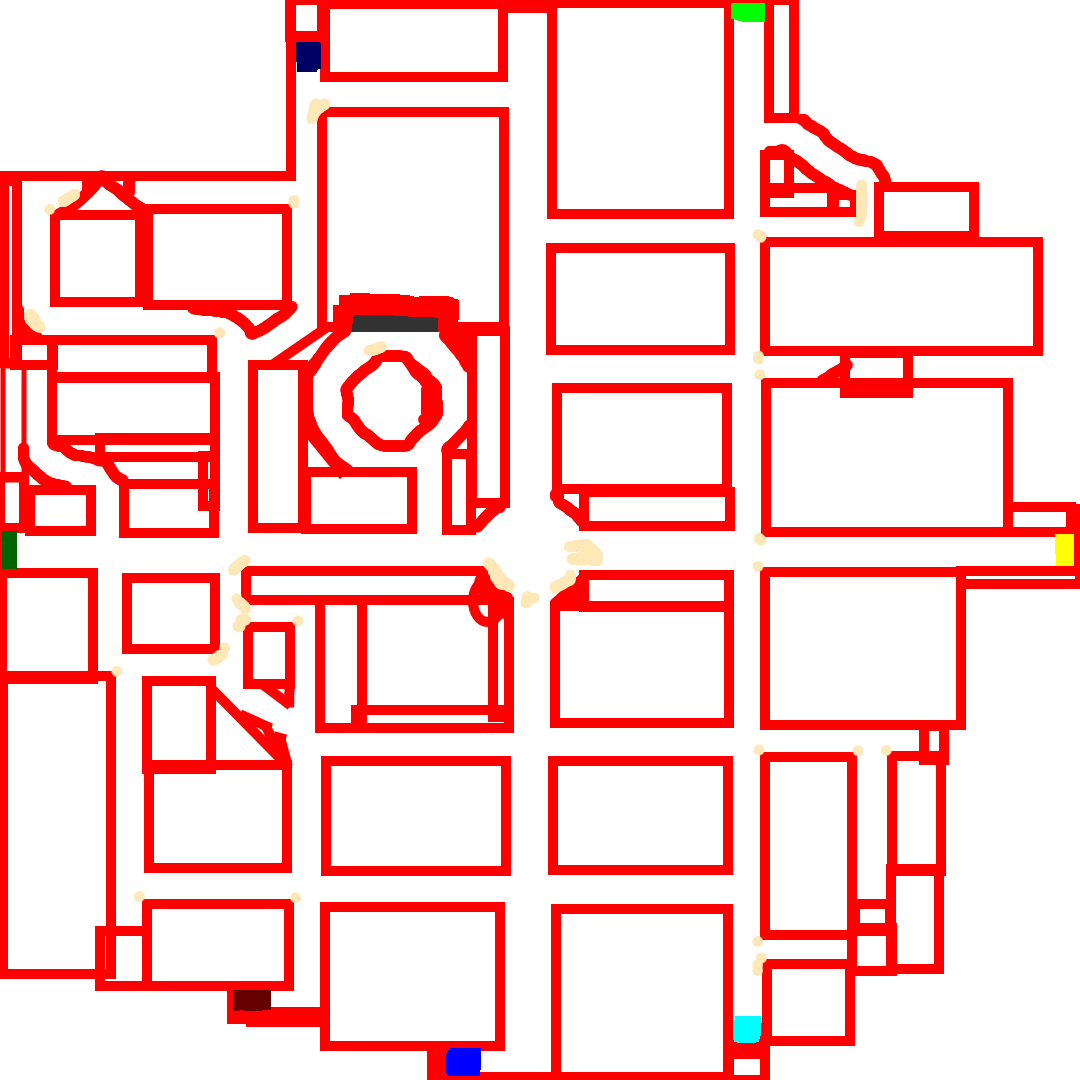
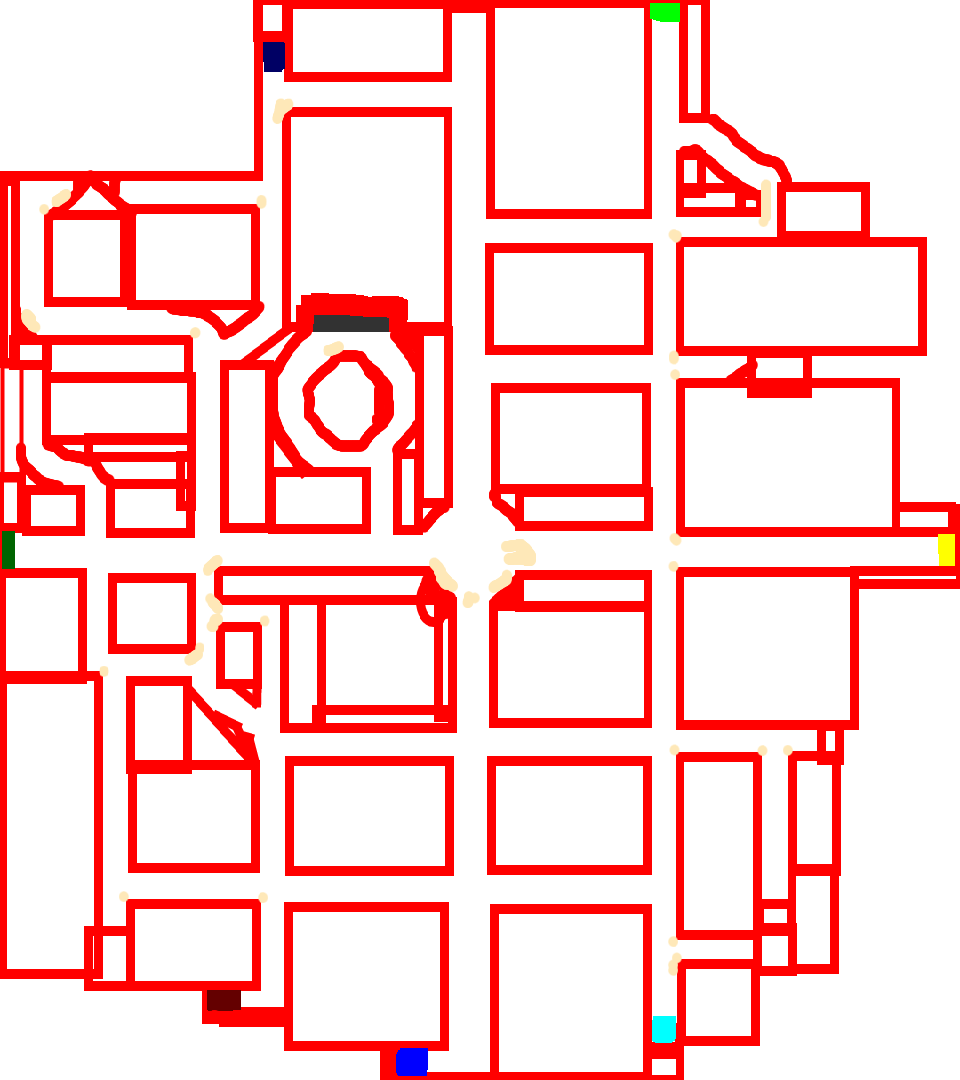
temp hub but bad collision

Changed region(s): [[0.0, 0.3361, 0.0312, 0.4278]]

diff --git a/src/hub.c b/src/hub.c
@@ -11,7 +11,7 @@
 
 void init_hub (hub_t *h, Global_t *m)
 {
-    h->view = sfView_createFromRect((sfFloatRect){0, 0, 1080, 1080});
+    h->view = sfView_createFromRect((sfFloatRect){0, 0, 960, 1080});
     h->rect = (sfIntRect){0, 512 + 65 * 2, 65, 65};
     h->sprite_perso = sfSprite_create();
     h->texture_hub = sfTexture_createFromFile("maps/hub.png", NULL);
@@ -21,8 +21,8 @@ void init_hub (hub_t *h, Global_t *m)
     h->hitbox = sfImage_createFromFile("maps/hub_detour.png");
     sfSprite_setTexture(h->sprite_hub, h->texture_hub, sfFalse);
     sfSprite_setTextureRect(h->sprite_perso, h->rect);
-    sfSprite_setPosition(h->sprite_perso, (sfVector2f){540, 540});
-    sfSprite_setScale(h->sprite_perso, (sfVector2f){0.5, 0.5});
+    sfSprite_setPosition(h->sprite_perso, (sfVector2f){460, 530});
+    sfSprite_setScale(h->sprite_perso, (sfVector2f){0.5, 0.7});
 }
 
 void draw_hub(Global_t *m, hub_t *h)
@@ -35,7 +35,7 @@ void draw_hub(Global_t *m, hub_t *h)
             sfRenderWindow_setView(m->window, h->normal_view);
         } else if (!m->perso->is_visible) {
             sfSprite_setScale(m->menu.cursor , (sfVector2f){0.4, 0.4});
-            if (sfView_getSize(h->view).x > 840 || sfView_getSize(h->view).y > 390) {
+            if (sfView_getSize(h->view).x > 860 || sfView_getSize(h->view).y > 800) {
                 sfView_zoom(h->view, 0.95f);
             }
             sfRenderWindow_setView(m->window, h->view);
@@ -90,7 +90,7 @@ void moveCharacter(Global_t *m, hub_t *hub) {
     hub->color = sfImage_getPixel(hub->hitbox, (hub->pos_sprite.x + hub->movement.x + 10), (hub->pos_sprite.y + hub->movement.y + 10));
     if (hub->color.r != 255 && hub->pos_sprite.x + hub->movement.x > 0 && hub->pos_sprite.x + hub->movement.x < 1080 && hub->pos_sprite.y + hub->movement.y > 0 && hub->pos_sprite.y + hub->movement.y < 1080) {
         sfSprite_move(hub->sprite_perso, hub->movement);
-        sfVector2f test = sfView_getCenter(hub->view);
+        //sfVector2f test = sfView_getCenter(hub->view);
         sfView_move(hub->view, hub->movement);
     }
     sfSprite_setTextureRect(hub->sprite_perso, hub->rect);
